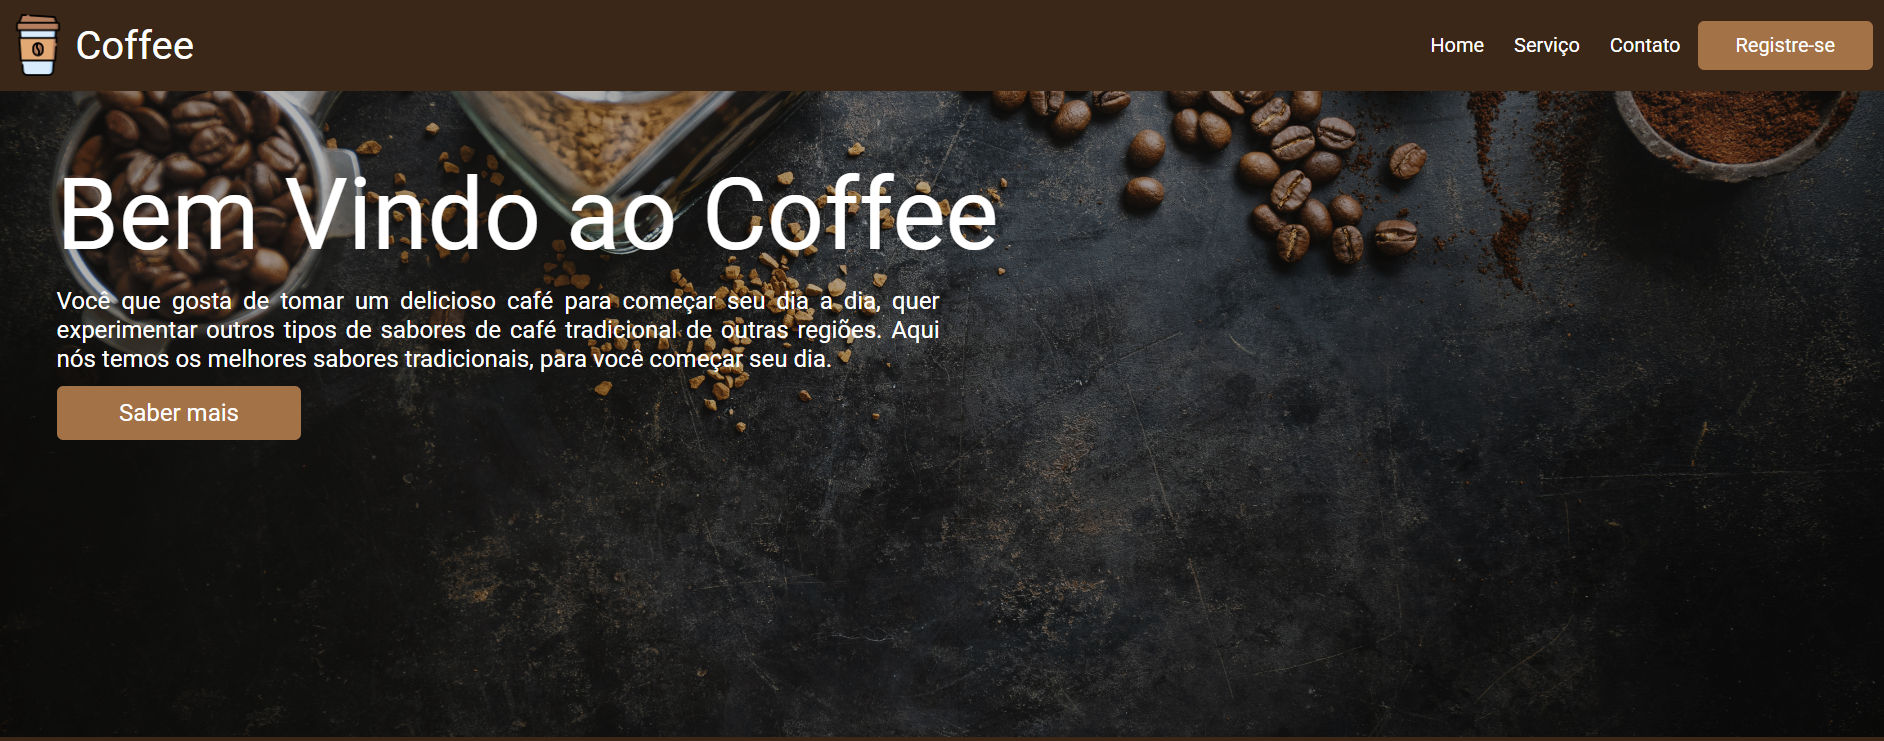
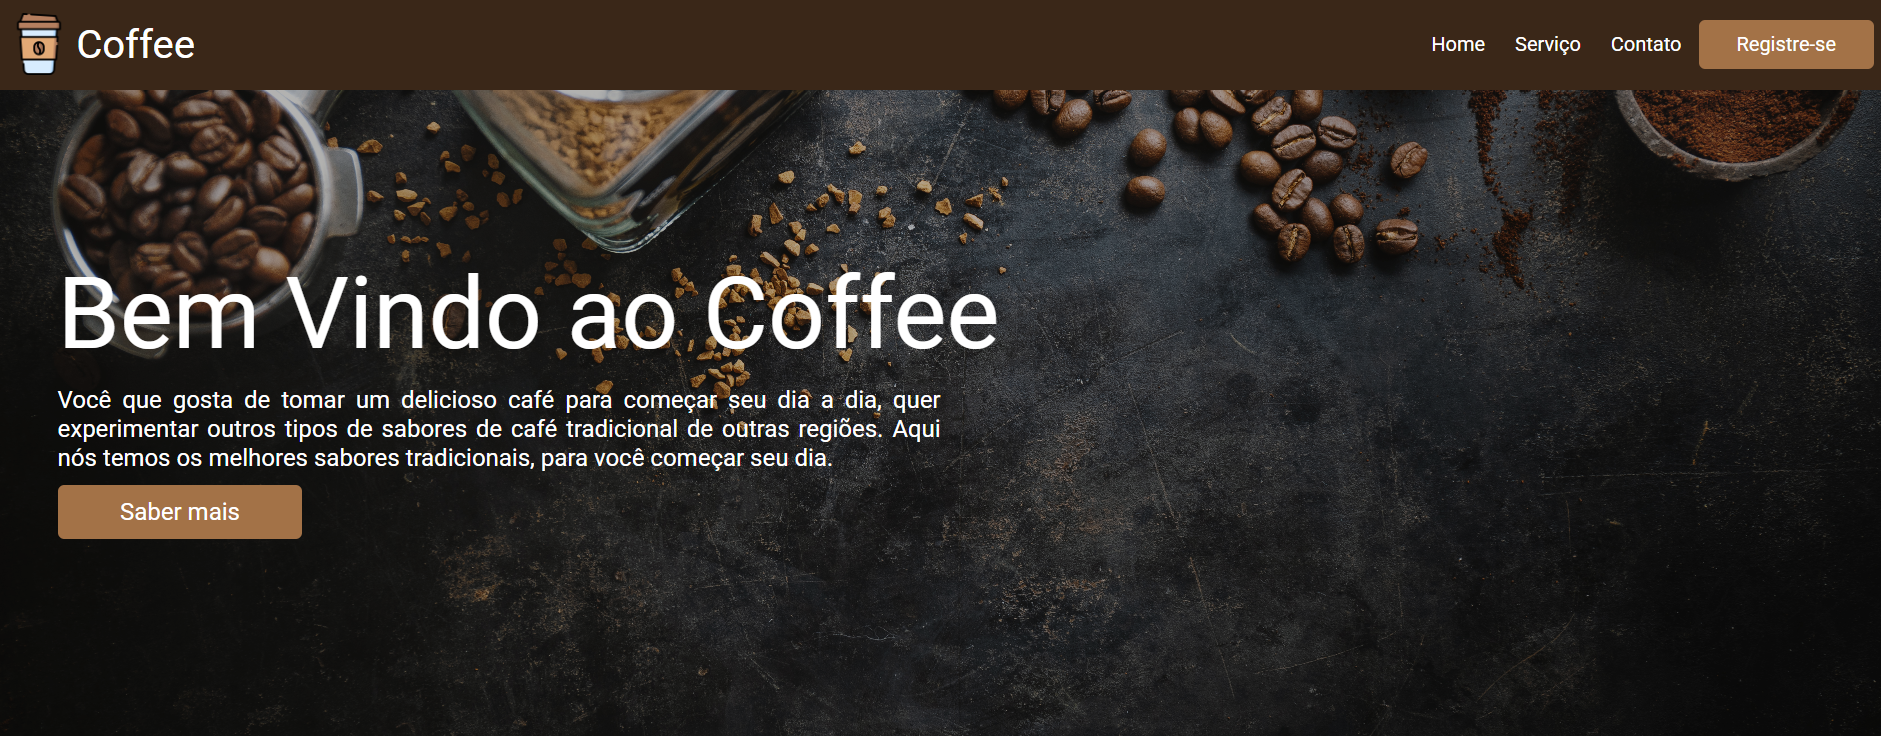
coffee

diff --git a/index.html b/index.html
@@ -42,6 +42,7 @@
                 <i class='bx bxs-star'></i>
                 <i class='bx bxs-star'></i>
                 <i class='bx bxs-star'></i>
+                <p>(4,0)</p>
             </div>
             <button>Pedir</button>
         </div>
@@ -55,6 +56,7 @@
                 <i class='bx bxs-star'></i>
                 <i class='bx bxs-star'></i>
                 <i class='bx bxs-star'></i>
+                <p>(4,9)</p>
             </div>
             <button>Pedir</button>
         </div>
@@ -68,6 +70,7 @@
                 <i class='bx bxs-star'></i>
                 <i class='bx bxs-star'></i>
                 <i class='bx bxs-star'></i>
+                <p>(5,0)</p>
             </div>
             <button>Pedir</button>
         </div>

diff --git a/Styles/style.scss b/Styles/style.scss
@@ -81,6 +81,7 @@ body{
         font-size: 5rem;
         font-weight: 400;
         color: $color-white;
+        margin-top: 5rem;
     }
     p{
         color: $color-white;
@@ -225,6 +226,7 @@ body{
         flex-direction: column;
         h1{
             font-size: 2rem;
+            margin-top: 0rem;
         }
         p{
             width: 100%;

diff --git a/Styles/style.css b/Styles/style.css
@@ -81,6 +81,7 @@ body {
   font-size: 5rem;
   font-weight: 400;
   color: #ffffff;
+  margin-top: 5rem;
 }
 .banner p {
   color: #ffffff;
@@ -223,6 +224,7 @@ body {
   }
   .banner h1 {
     font-size: 2rem;
+    margin-top: 0rem;
   }
   .banner p {
     width: 100%;
